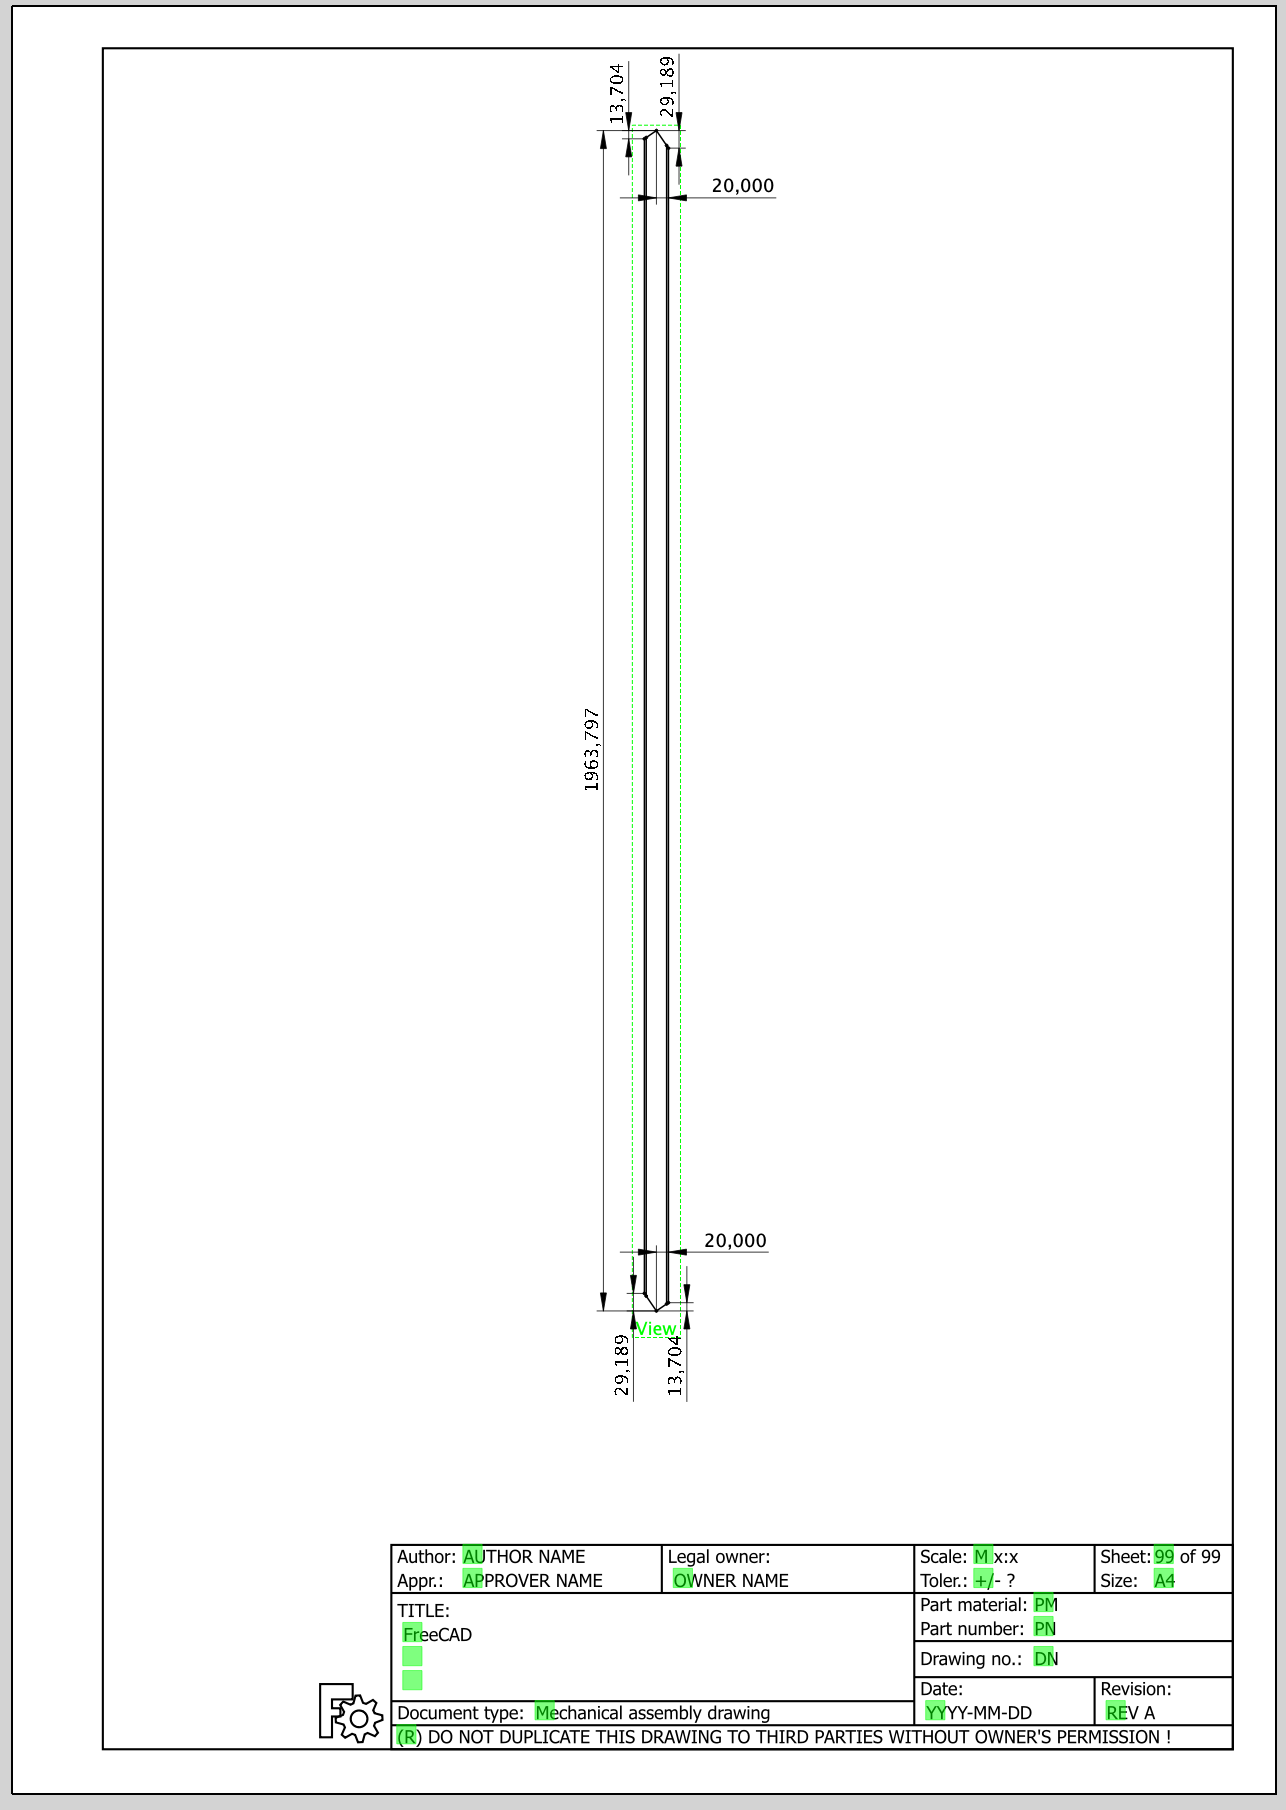
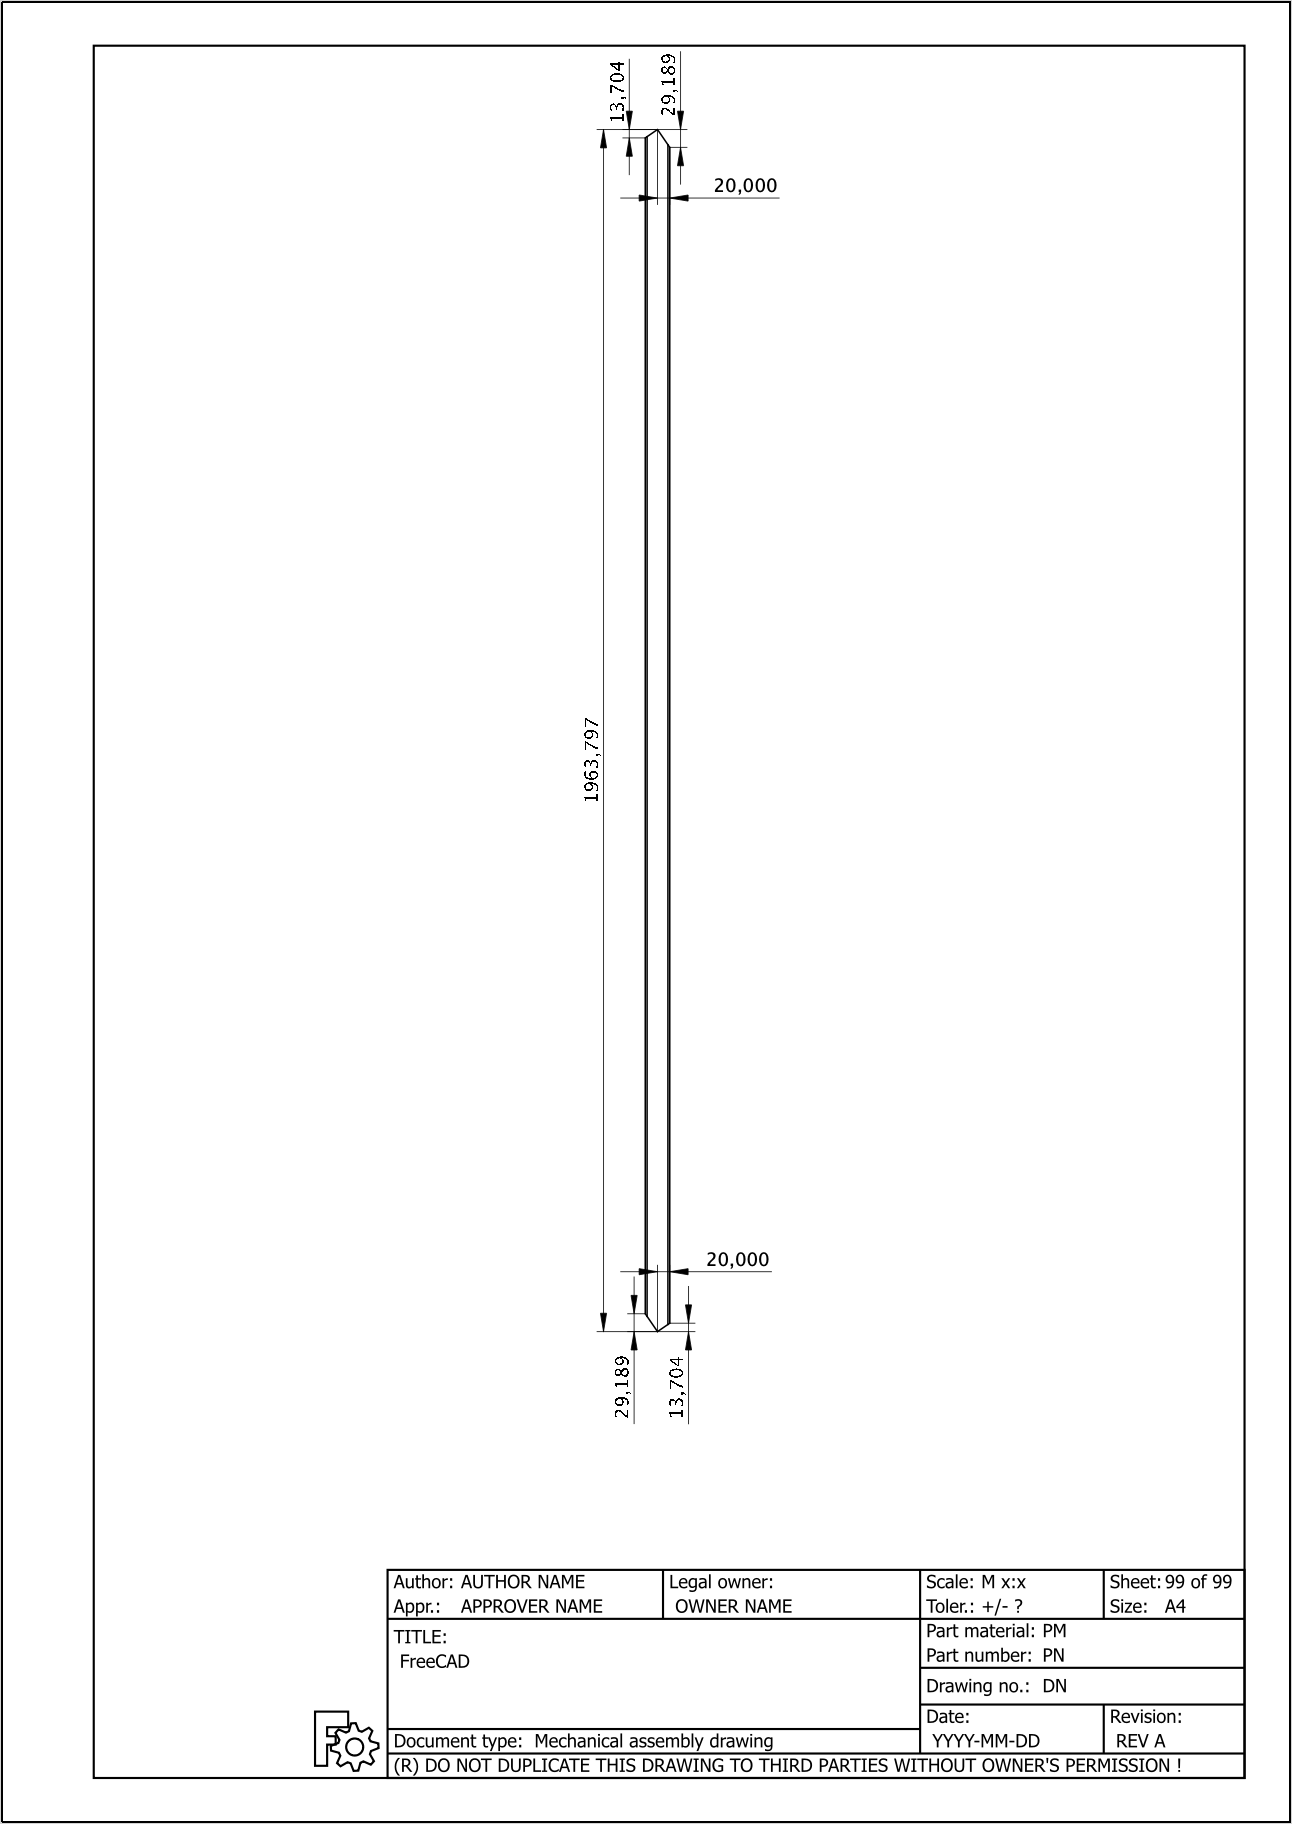
Fix typos and make screenshot better

Changed region(s): [[0.0, 0.0, 1.0, 1.0]]

diff --git a/README.md b/README.md
@@ -86,9 +86,9 @@ they will be preselected as "Beam 1" and "Beam 2". To cut them press
 
 ## Example
 
-Gate lead creation.
+Gate leaf creation.
 
-<img src="/example/gate/beams_cutted.png">
+<img src="/example/gate/beams_cut.png">
 
 Prerequisites:
 
@@ -105,8 +105,8 @@ Prerequisites:
    <img src="/example/gate/profile_sketch.png">
 
    1. Create a new sketch in XY plane.
-   2. Repeat drawing from picture above. Outer rounding radius is 3mm,
-      inner rounding radius is 2mm.
+   2. Repeat drawing from picture above. Outer rounding radius is 3mm
+      and inner rounding radius is 2mm.
    3. Close sketch.
    4. Select Part Workbench and convert sketch to face ("Make face from
       wires" command).
@@ -118,7 +118,9 @@ Prerequisites:
    
    This will require a little bit more work because some measurements
    give outer sizes, some give inner and no one give axes. The
-   diagonal supports are drawn acoording to other beams.
+   diagonal supports are drawn according to other beams. To achieve
+   correct lines construction geometry should be used for everything
+   that is not beam in final design like outer edge of gate. 
 
 3. Create outer beams. Since they should fully intersect the "Extent
    1" and "Extent 2" should have value 20mm at least. Please don't
@@ -134,27 +136,32 @@ Prerequisites:
    
 5. Miter cut outer beams.
 
-   Please note thnat *every* cut operation creates a new beam so if
-   beam needs to be cutted twice it should be reselected after the
-   first cut.
+   <img src="/example/gate/outer_beams_cut.png">
+   
+   Please note that *every* cut operation creates a new beam so if
+   beam needs to be cut twice it should be reselected after the
+   first cut. Removing cut beam can break other cut beams if it is
+   used in the other beam cut operation.
 
-6. Plane cut inner beams bout outre beams and middle horizontal beams.
+6. Plane cut inner beams by outer beams inner planes. Plane cut
+   diagonals.
 
-   <img src="/example/gate/beams_cutted.png">
+   <img src="/example/gate/beams_cut.png">
    
 7. Select TechDraw Workbench
 
    <img src="/example/gate/drawing.png">
    
    1. Insert page from template and select A4 Portrait template.
-   2. Go to the 3D view and select "Front View" to see fron side.
+   2. Go to the 3D view and select "Front View" to see front side. The
+      TechDraw inserts view in current active projection.
    3. Select Main Diagonal.
    4. Go to the inserted page and press "Insert view". The page will
       contain huge page placed as viewed.
    5. Select view in tree and set scale to 0.1. This makes beam
       completely inside drawing.
-   6. The TechDraw doesn't allow to simple rotations like "make this
-      line vertical" so view should be rotated by -55.582 degrees
+   6. The TechDraw don't allow to simple rotations like "make this
+      line vertical" so view should be rotated by -55.582°
       (measured as angle between vertical border and angled one). This
       make beam straight vertical on drawing.
    7. Add dimensions to overall length and how to cut corners.
